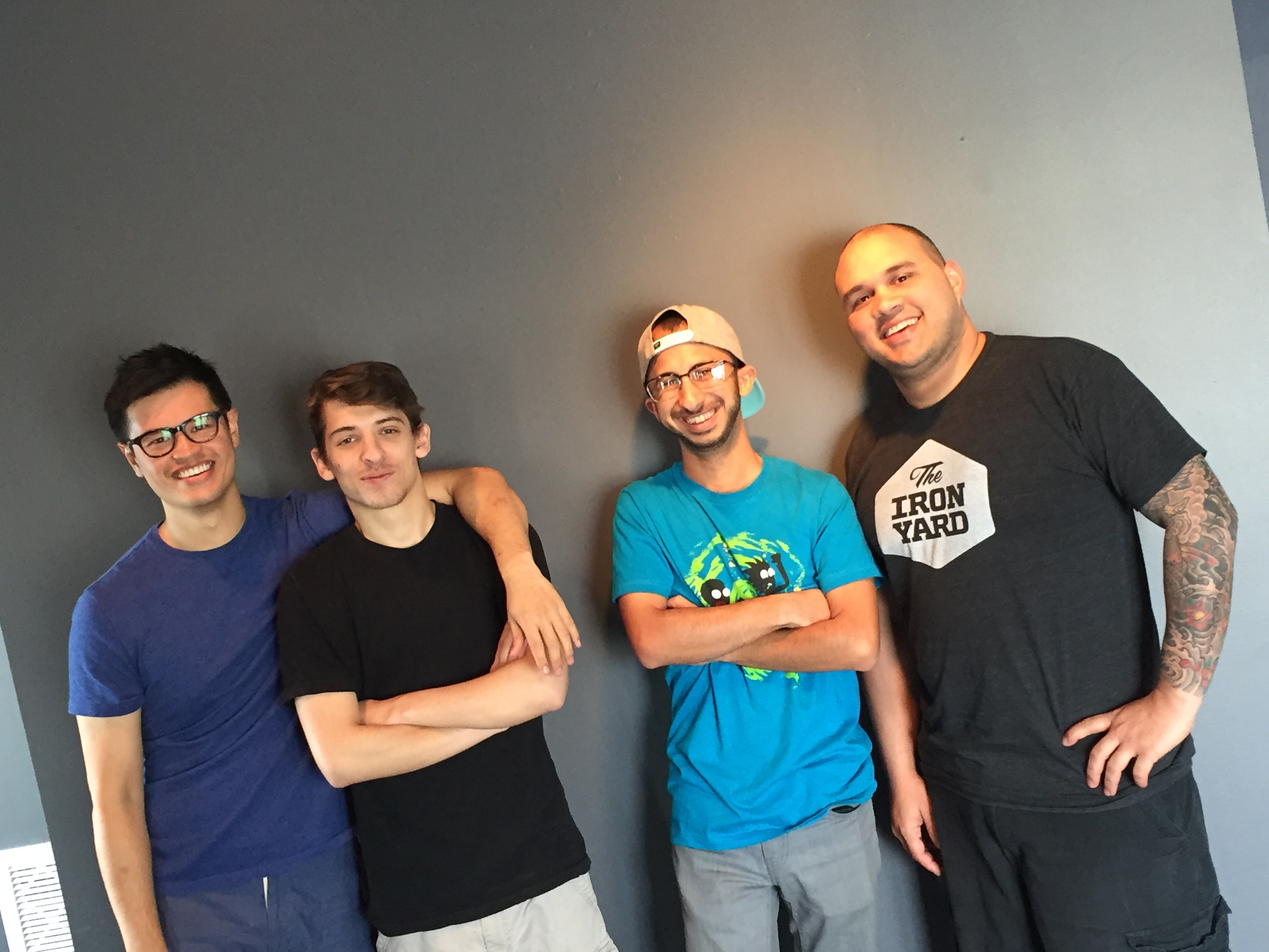
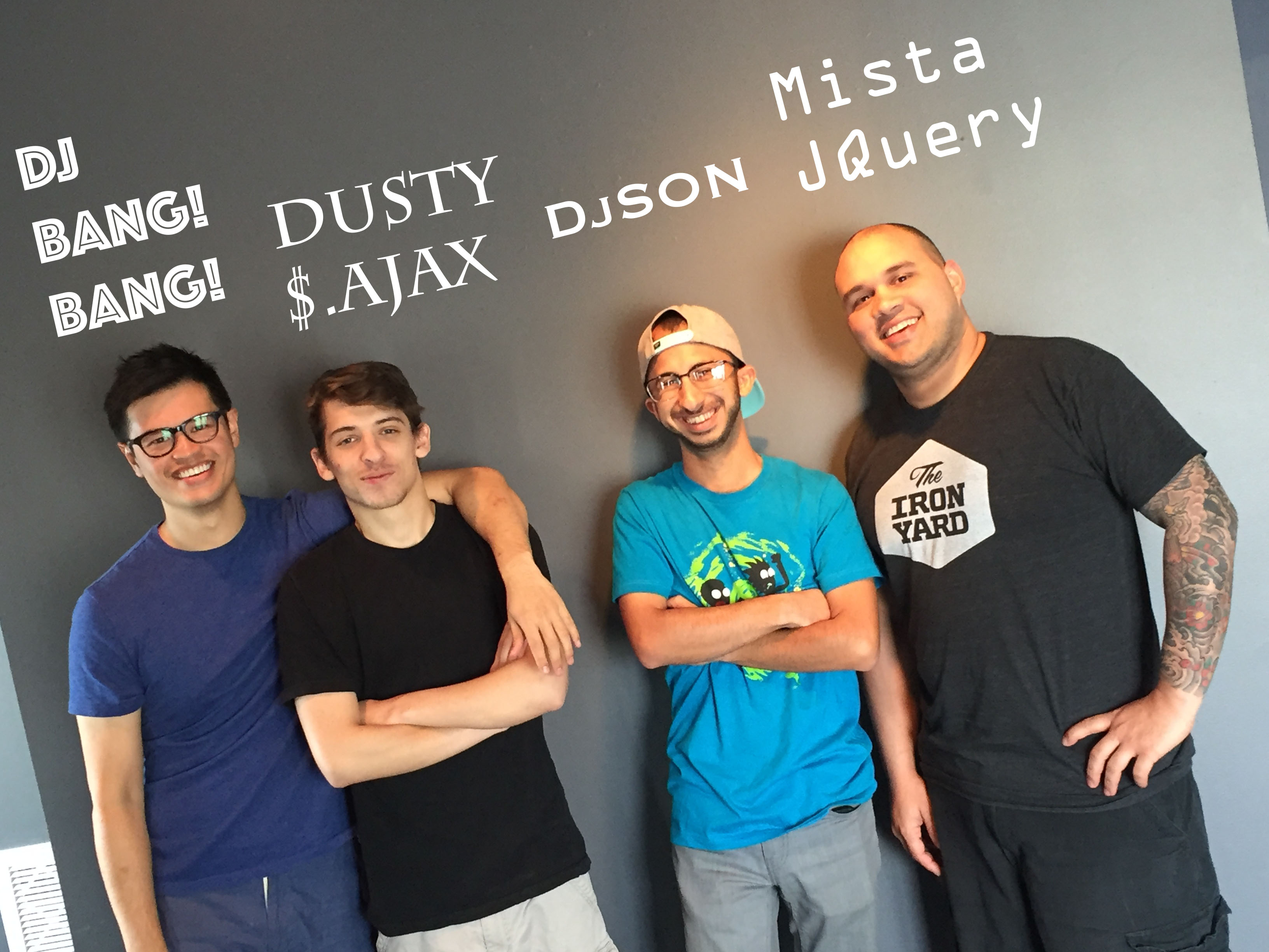
form

diff --git a/index.html b/index.html
@@ -5,6 +5,7 @@
 	<title>Lagoon Valley</title>
 	<link rel="stylesheet" type="text/css" href="normalize.css">
 	<link rel="stylesheet" type="text/css" href="style.css">
+	<link href="https://fonts.googleapis.com/css?family=Abhaya+Libre|Alice|Josefin+Slab|Open+Sans|Playfair+Display+SC" rel="stylesheet">
 </head>
 <body>
 
@@ -20,24 +21,28 @@
 		
 		
 	</div>
-	
-	
-		<div class="tabs">
-			<div class="about">
-			
-			<p>This story began with four Dj's accross the States. First we have Mister JQuery(Ryan) from Miami who made a name for himself as the Bad Boy of South Beach. Next we have Bang! Bang!(Tim) straight outta D.C. the president of Dj's. Next we have JSon(Jason) outta San Deigo bringing that beach vibe everywhere he goes. Last but not least we got Sin City's own Dusty Ajax(Dustin). JQuery, Bang! Bang!, and Json all took their talents to Sin City they all would meet each other working gigs in Vegas and became good friends. One day Jquery now only known as Ryan decided to lay down his records and try his hand at cooking. Tim, Dustin and Jason would tell Ryan he should try out for a cooking show so he did. He made top 80 on MasterCook and six months later he was MasterCook Champion. Ryan then had an idea to start up a restaurant with his friends. We joined together and started working right away. It took awhile to come up with a theme for which we all agreed on but leave it to Tim to bring it and say why dont we "bring the beach to the valley". We loved that idea not long after Tim also came up with our restaurant name "Lagoon Valley, LV". That was it we never looked back been business partners since we open these doors on September 26th 2016. We have more ideas up our sleeve join our newsletter to see what project we have in store we could be coming to your city next. </p>
-			<img src="images/IMG_5206.jpg" style="width:100%;height: 500px;"/>
+	<div class="tabs">	
+		<ul class="tab__buttons">
+			<li class="tab" content="about">About</li>
+			<li class="tab" content="menu">Menu</li>
+			<li class="tab" content="specials">Specials</li>
+			<li class="tab" content="news">News</li>
+			<li class="tab" content="location">Location</li>
+			<li class="tab" content="reservations">Reservations</li>
+		</ul>
+			<div class="content" id="about">
+				<img id="bio" src="images/IMG_5206.jpg"/><p class="story">This story began with four Dj's accross the States. First we have Mista JQuery(Ryan) from Miami who made a name for himself as the Bad Boy of South Beach. Next we have Bang! Bang!(Tim) straight outta D.C. the president of Dj's. Next we have DJSon(Jason) outta San Deigo bringing that beach vibe everywhere he goes. Last but not least we got Sin City's own Dusty Ajax(Dustin). JQuery, Bang! Bang!, and Json all took their talents to Sin City they all would meet each other working gigs in Vegas and became good friends. One day Jquery now only known as Ryan decided to lay down his records and try his hand at cooking. Tim, Dustin and Jason would tell Ryan he should try out for a cooking show so he did. He made top 80 on MasterCook and six months later he was MasterCook Champion. Ryan then had an idea to start up a restaurant with his friends. We joined together and started working right away. It took awhile to come up with a theme for which we all agreed on but leave it to Tim to bring it and say why dont we "bring the beach to the valley". We loved that idea not long after Tim also came up with our restaurant name "Lagoon Valley, LV". That was it we never looked back been business partners since we open these doors on September 26th 2016. We have more ideas up our sleeve join our newsletter to see what project we have in store we could be coming to your city next.</p>
 			</div>
-		<div class="reservations">
-		<div class="left">
+		<div class="content" id="location">
+			
+		</div>
+		<div class="content" id="reservations">
 			<label class="name">Full Name</label><br>
 			<input type="text" id="name" name="name" placeholder="Name" /><br>
 			<label class="guest">Number of Guests</label><br>
 			<input type="number" id="number" name="number" placeholder="0" /><br>
 			<label class="date">Date</label><br>
 			<input type="date" id="dates" name="dates">
-			</div>
-			<div class="right">
 			<label class="notes">Special Notes</label><br>
 			<form><textarea rows="8" cols="40"></textarea></form><br>
 			<label class="seating">Seating Preference</label><br>
@@ -46,10 +51,9 @@
 			  <option value="Choose">Inside</option>
 			  <option value="Choose">Outside</option>
 			  </select>
-			  </div>
 			  <button>Reserve Table</button>
 
-		</div>
+			</div>
 		</div>
 		
 	
@@ -57,7 +61,9 @@
 		<p>&#169; Lagoon Valley</p>
 	</div>
 </div>
- <script   src="http://code.jquery.com/jquery-3.1.1.min.js"   integrity="sha256-hVVnYaiADRTO2PzUGmuLJr8BLUSjGIZsDYGmIJLv2b8="   crossorigin="anonymous"></script>
+<script src="https://code.jquery.com/jquery-3.1.1.min.js" integrity="sha256-hVVnYaiADRTO2PzUGmuLJr8BLUSjGIZsDYGmIJLv2b8=" crossorigin="anonymous"></script>
+<script async defer src="https://maps.googleapis.com/maps/api/js?key=AIzaSyAvXyBl_uPBIYJlGfGn_XzF5omkOzpmSYw&callback=initMap">
+</script>
  <script src="main.js"></script>	
 </body>
 </html>

diff --git a/style.css b/style.css
@@ -1,12 +1,20 @@
 html{
 	box-sizing: border-box;
 }
+
+html, body {
+	width:100%;
+	height:100%;
+	background-color: #602C1C;
+}
 *,*:before,*:after{
 	box-sizing: inherit;
 }
 
 #container{
-	width: 100%
+	width: 100%;
+	height: 100%;
+	position: relative;
 }
 
 #bg_overlay {
@@ -19,12 +27,13 @@ html{
     right:0;
 }
 
+
 #logo__header {
 	background-repeat: no-repeat;
 	background-image: url(images/Lagoon_Valley_Logo.png);
 	z-index: 2;
 	width: 292px;
-	height: 234px;
+	height: 134px;
 	background-position-y: 15px;
 	background-position-x: 50px;
 	background-size: 150px;
@@ -40,6 +49,7 @@ html{
 	background-repeat: no-repeat;
 	background-position-y:-1669px;
 	position: fixed;
+	margin-top: -100px;
 	margin-top: 0px;
     margin-left: 0;
     padding-left: 0;
@@ -48,9 +58,7 @@ html{
 
 
 .restaurant{
-	margin-top: 100px;
-		
-	height: 530px;
+	height: 50%;
 	width: 100%;
 	
 	
@@ -84,10 +92,6 @@ html{
 .pics img:first-child{
 	width: 100%;
 }
-.title{
-	color: white;
-	position: absolute;
-}
 .current{
 	z-index: 2;
    
@@ -96,35 +100,17 @@ html{
 	opacity: 1;
 }
 
-p{
+p h1 h2{
 	margin-top: 0;
 }
-h1{
-	margin-top: 0;
-}
-h2{
-	margin-top: 0;
-}
-
-
 
 
 
 .tabs{
-	height: 700px;
-	margin-top: 381px;
+	padding-top:600px;
 	
+}
 
-	
-}
-.about{
-	text-align: center;
-	border:1px solid black;
-	box-shadow: 10px 10px 5px #888888;
-	width: 50%;
-	margin:auto;
-	padding: 10px;
-}
 .reservations{
 	border:1px solid black;
 	box-shadow: 10px 10px 5px #888888;
@@ -134,45 +120,112 @@ h2{
 	height: 350px;
 }
 .left{
-	float: left;
-	margin-left: 7px;
+	margin: auto;
 }
-.right{ 
-    margin: 0 5px 0 440px;
- }
+
 textarea{
 	border-radius: 3px;
+	font-family: 'Playfair Display SC', sans-serif;
+	font-size: 14px;
 	
 }
 
 ::-webkit-input-placeholder 
   color: #ccc;
-  font-size: 25px;
-  font-family: "Trebuchet MS", Helvetica, sans-serif;
+  font-size: 22px;
+  font-family: "Playfair Display SC", Helvetica, sans-serif;
+}
+.tab__buttons {
+	list-style: none;
+	padding-left: 0;
+	display: flex;
+	justify-content: space-around;
+	font-size: 30px;
+	width: 100%;
+
+}
+
+.tab {
+	color:white;
+	padding: 5px 30px 5px;
+	border-radius: 2px;
+	font-family: 'Abhaya Libre', serif;
+	width: 15%;
+	transition: background, color, .5s;
+	text-align: center;
+}
+
+.tab:hover {
+	color:#602C1C;
+	padding: 5px 30px 5px;
+	border-radius: 2px;
+	font-family: 'Abhaya Libre', serif;
+	width: 15%;
+	background-color: white;
+	text-align: center;
+
+}
+
+.content {
+	display: none;
+	margin-top: 100px;
+}
+
+#location {
+	height: 445px;
+	width: 50%;
+	margin: auto;
+	padding-top: 0px;
+}
+
+.show {
+	display: block;
+}
+
+#bio {
+	width: auto; 
+	height: 675px;
+	display: block;
+	margin: auto;
+}
+
+.story {
+	line-height: 50px;
+	width: 1500px;
+	margin: auto;
+	font-family: 'Alice', serif;
+	font-size: 20px;
+	color: #000
 }
 
 label{
-	font-size: 30px;
-	font-family: "Trebuchet MS", Helvetica, sans-serif;
-
+	font-family: 'Playfair Display SC', sans-serif;
+	font-size: 22px;
+	margin:auto;
 }
+
 #dates{
-	font-size: 25px;
+	margin: auto;
+	font-family: 'Playfair Display SC', sans-serif;
+	font-size: 22px;
 	
 }
 input{
 	border-radius: 3px;
 	width: 250px;
 	height: 52px;
-	font-size: 25px;
+	font-family: 'Playfair Display SC', sans-serif;
+	font-size: 22px;
+	margin: auto;
 }
 button{
 	width: 150px;
 	height: 45px;
 	background-color: red;
 	border-radius: 8px;
-	color:white;
-	margin: 15px 0 0 270px;
+	color: white;
+	border: 0px;
+	margin: auto;
 }
 button:hover{
 	background-color: white;
@@ -181,13 +234,14 @@ button:hover{
 select{
 	width: 200px;
 	height: 35px;
+	margin: auto;
 }
 
 
 .footer{
-	
 	height: 50px;
-	width: auto;
+	width: 100%;
 	color: white;
 	background-color: black;
+	position: relative;
 }

diff --git a/main.js b/main.js
@@ -1,4 +1,24 @@
-$(document).ready(function(){
+
+$(document).ready(function() {
+    //NEWS API 
+    $.get("https://json-data.herokuapp.com/restaurant/news/1",function(news) {
+        console.log(news)
+        var newsContent = `
+            news.title
+        `
+        console.log(newsContent)
+
+    })
+
+    //SPECIALS MENU API
+    var b = $.get("https://json-data.herokuapp.com/restaurant/special/1", function(specials) {
+        console.log(specials)
+    })
+
+    //ENTRES, APPETIZERS, ALA CARTE MENU ITEMS API
+    var c = $.get("https://json-data.herokuapp.com/restaurant/menu/1", function(menuItems) {
+        console.log(menuItems)
+    })
 
 var carouselImages = [
     {
@@ -74,10 +94,52 @@ var htmlStr = ""
     
 })
 
+function initMap() {
+        //coordinates for address. from www.gps-coordinates.net
+        var coordinates = {
+            lat: 36.1583864,
+            lng: -115.1525016
+        }
+        var map = new google.maps.Map(document.getElementById("location"), {
+            zoom: 17,
+            center: coordinates,
+            styles: [
+                {    
+                featureType: 'poi',
+                elementType: 'labels',
+                stylers: [{visibility: 'off'}]
+                }
+            ]
+        })
 
+        var contentString = `
+            <h2>Lagoon Valley</h2>
+            <p>Las Vegas' premier find dining seafood experience. Enjoy the freshest seafood the Valley has to offer.</p>
+            <div><b>insert Lagoon Valley Logo here</b></div>
+        `
 
+        var infowindow = new google.maps.InfoWindow({
+            content: contentString,
+            maxWidth: 1000
+        });
 
+        var marker = new google.maps.Marker({
+                position: coordinates,
+                map: map,
+                title: 'Lagoon Valley'
+        })
 
+        marker.addListener('click', function() {
+        infowindow.open(map, marker)
+        
+        })
+}
+
+$(".tab").on('click', function(e){
+    $(".content").hide()
+    var content = $(this).attr("content")
+    $(`#${content}`).show()
+})
 
 
 
